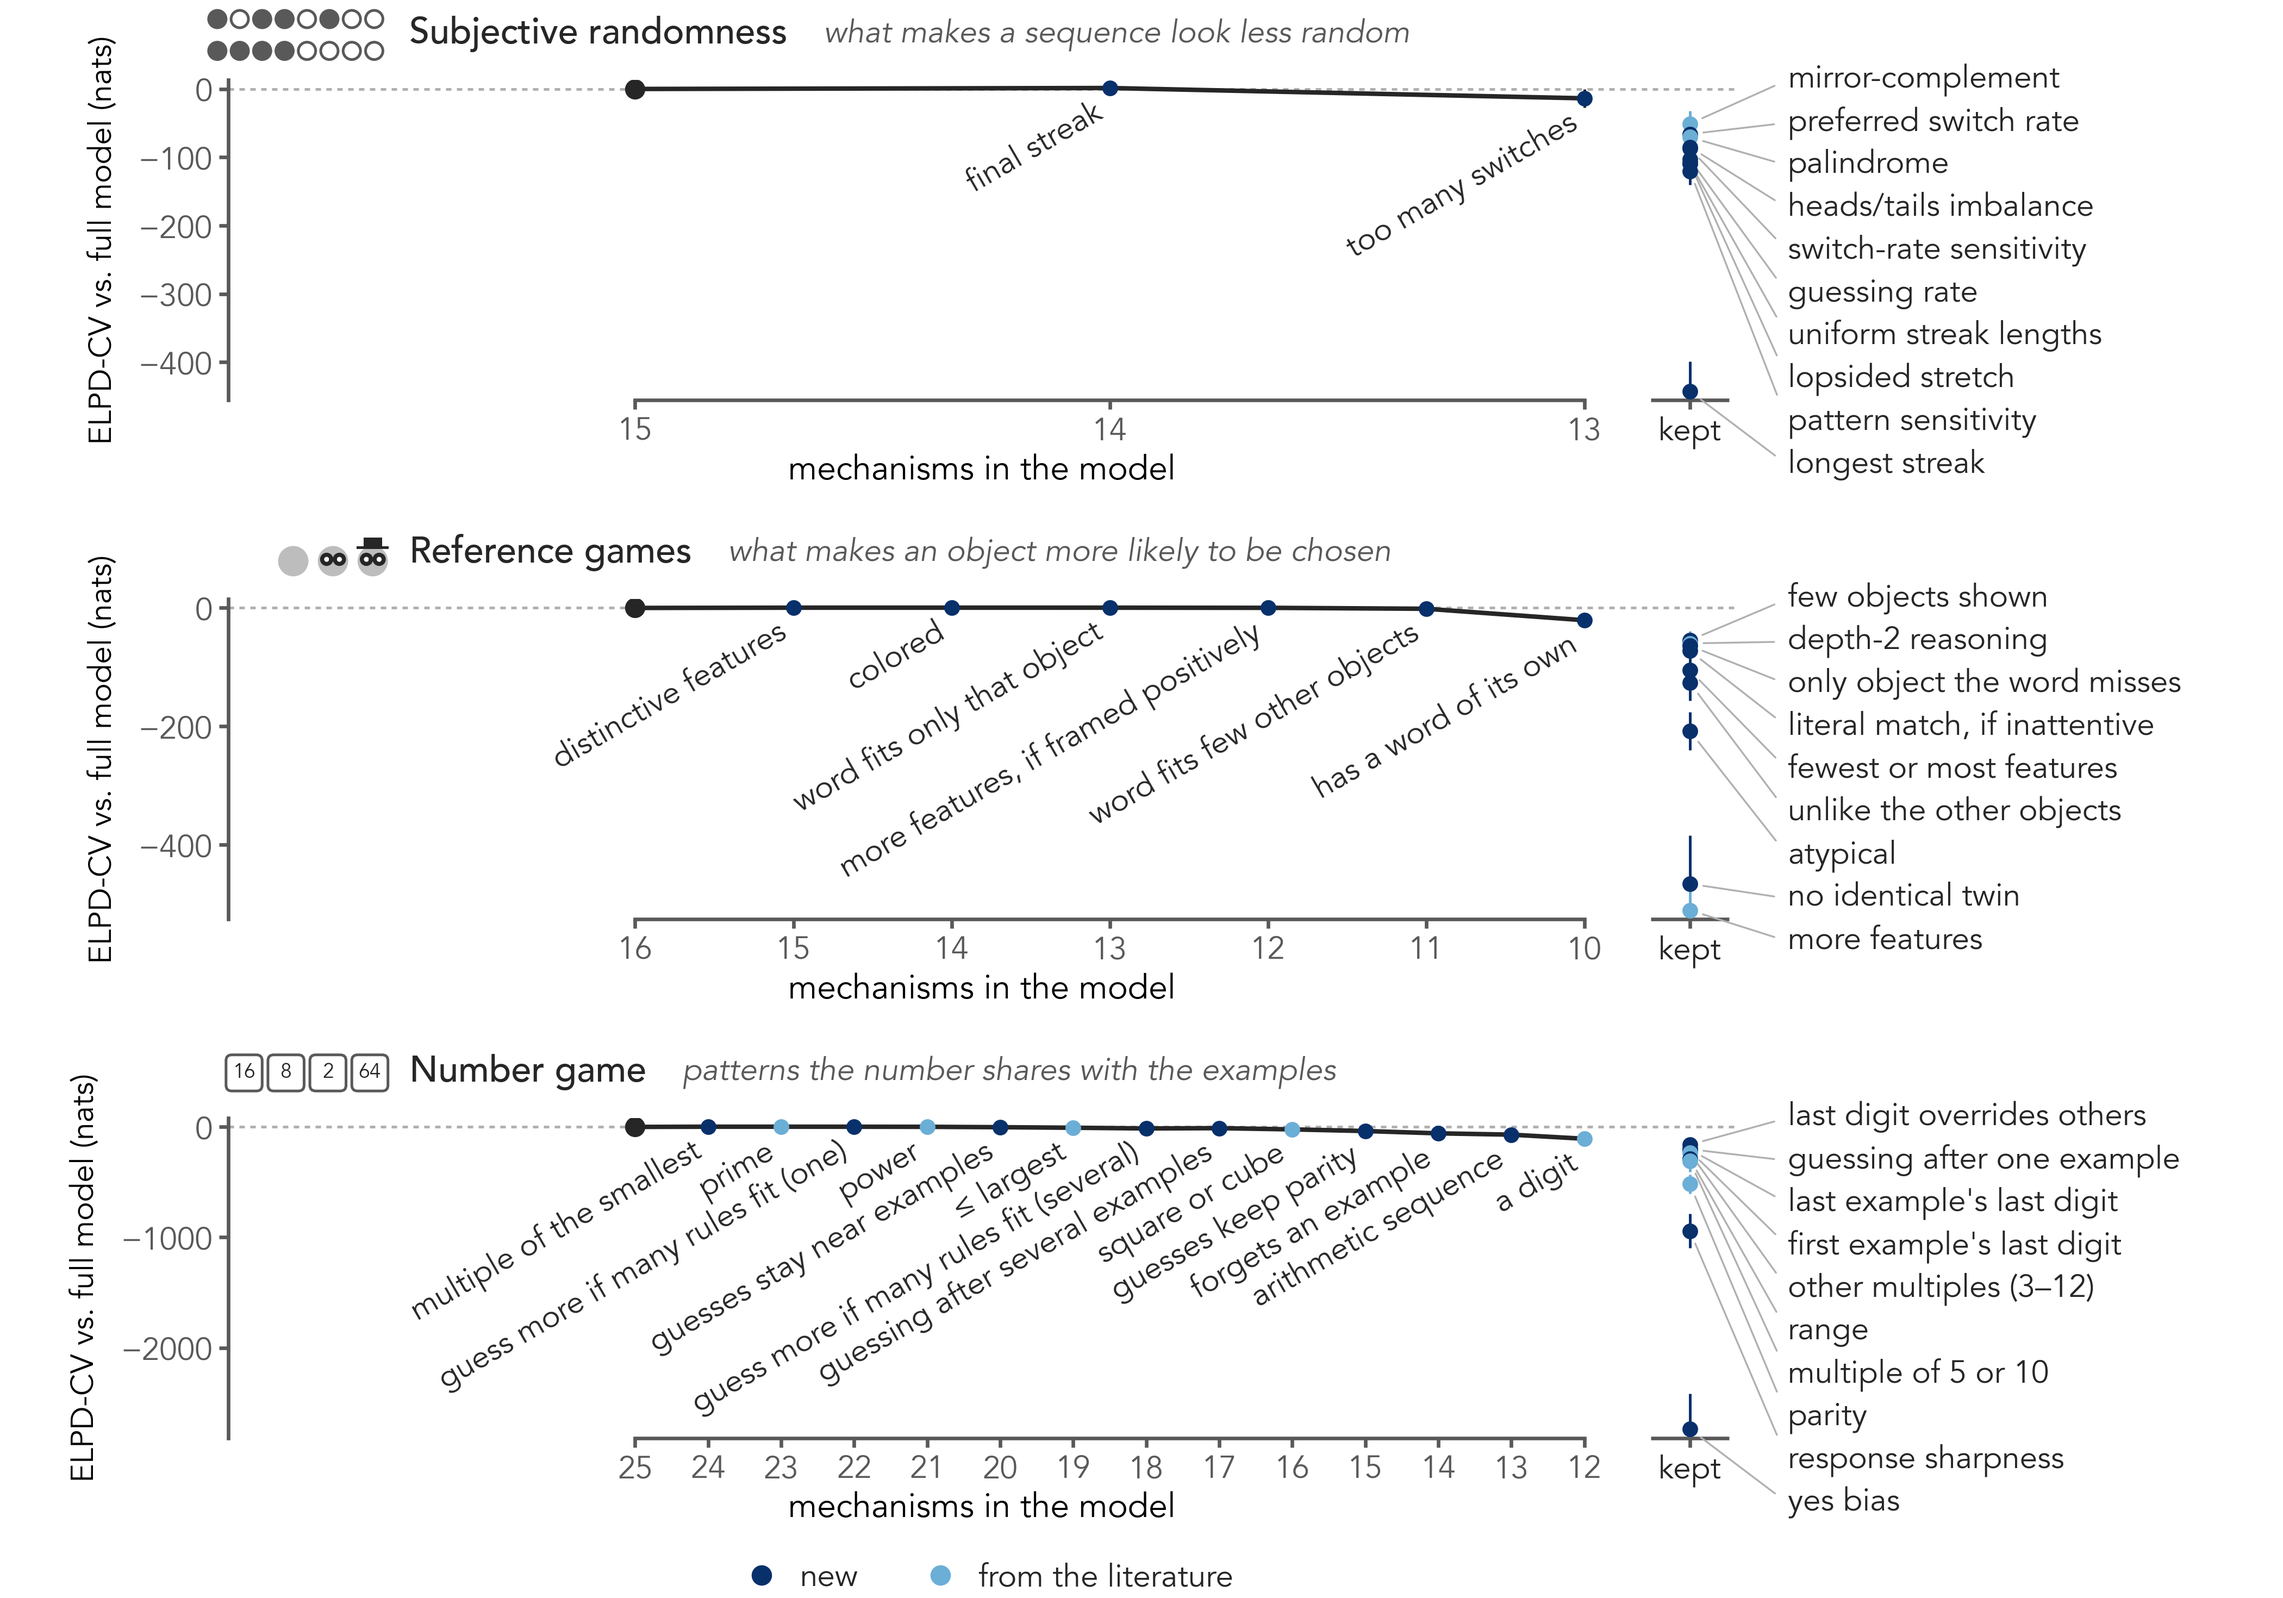
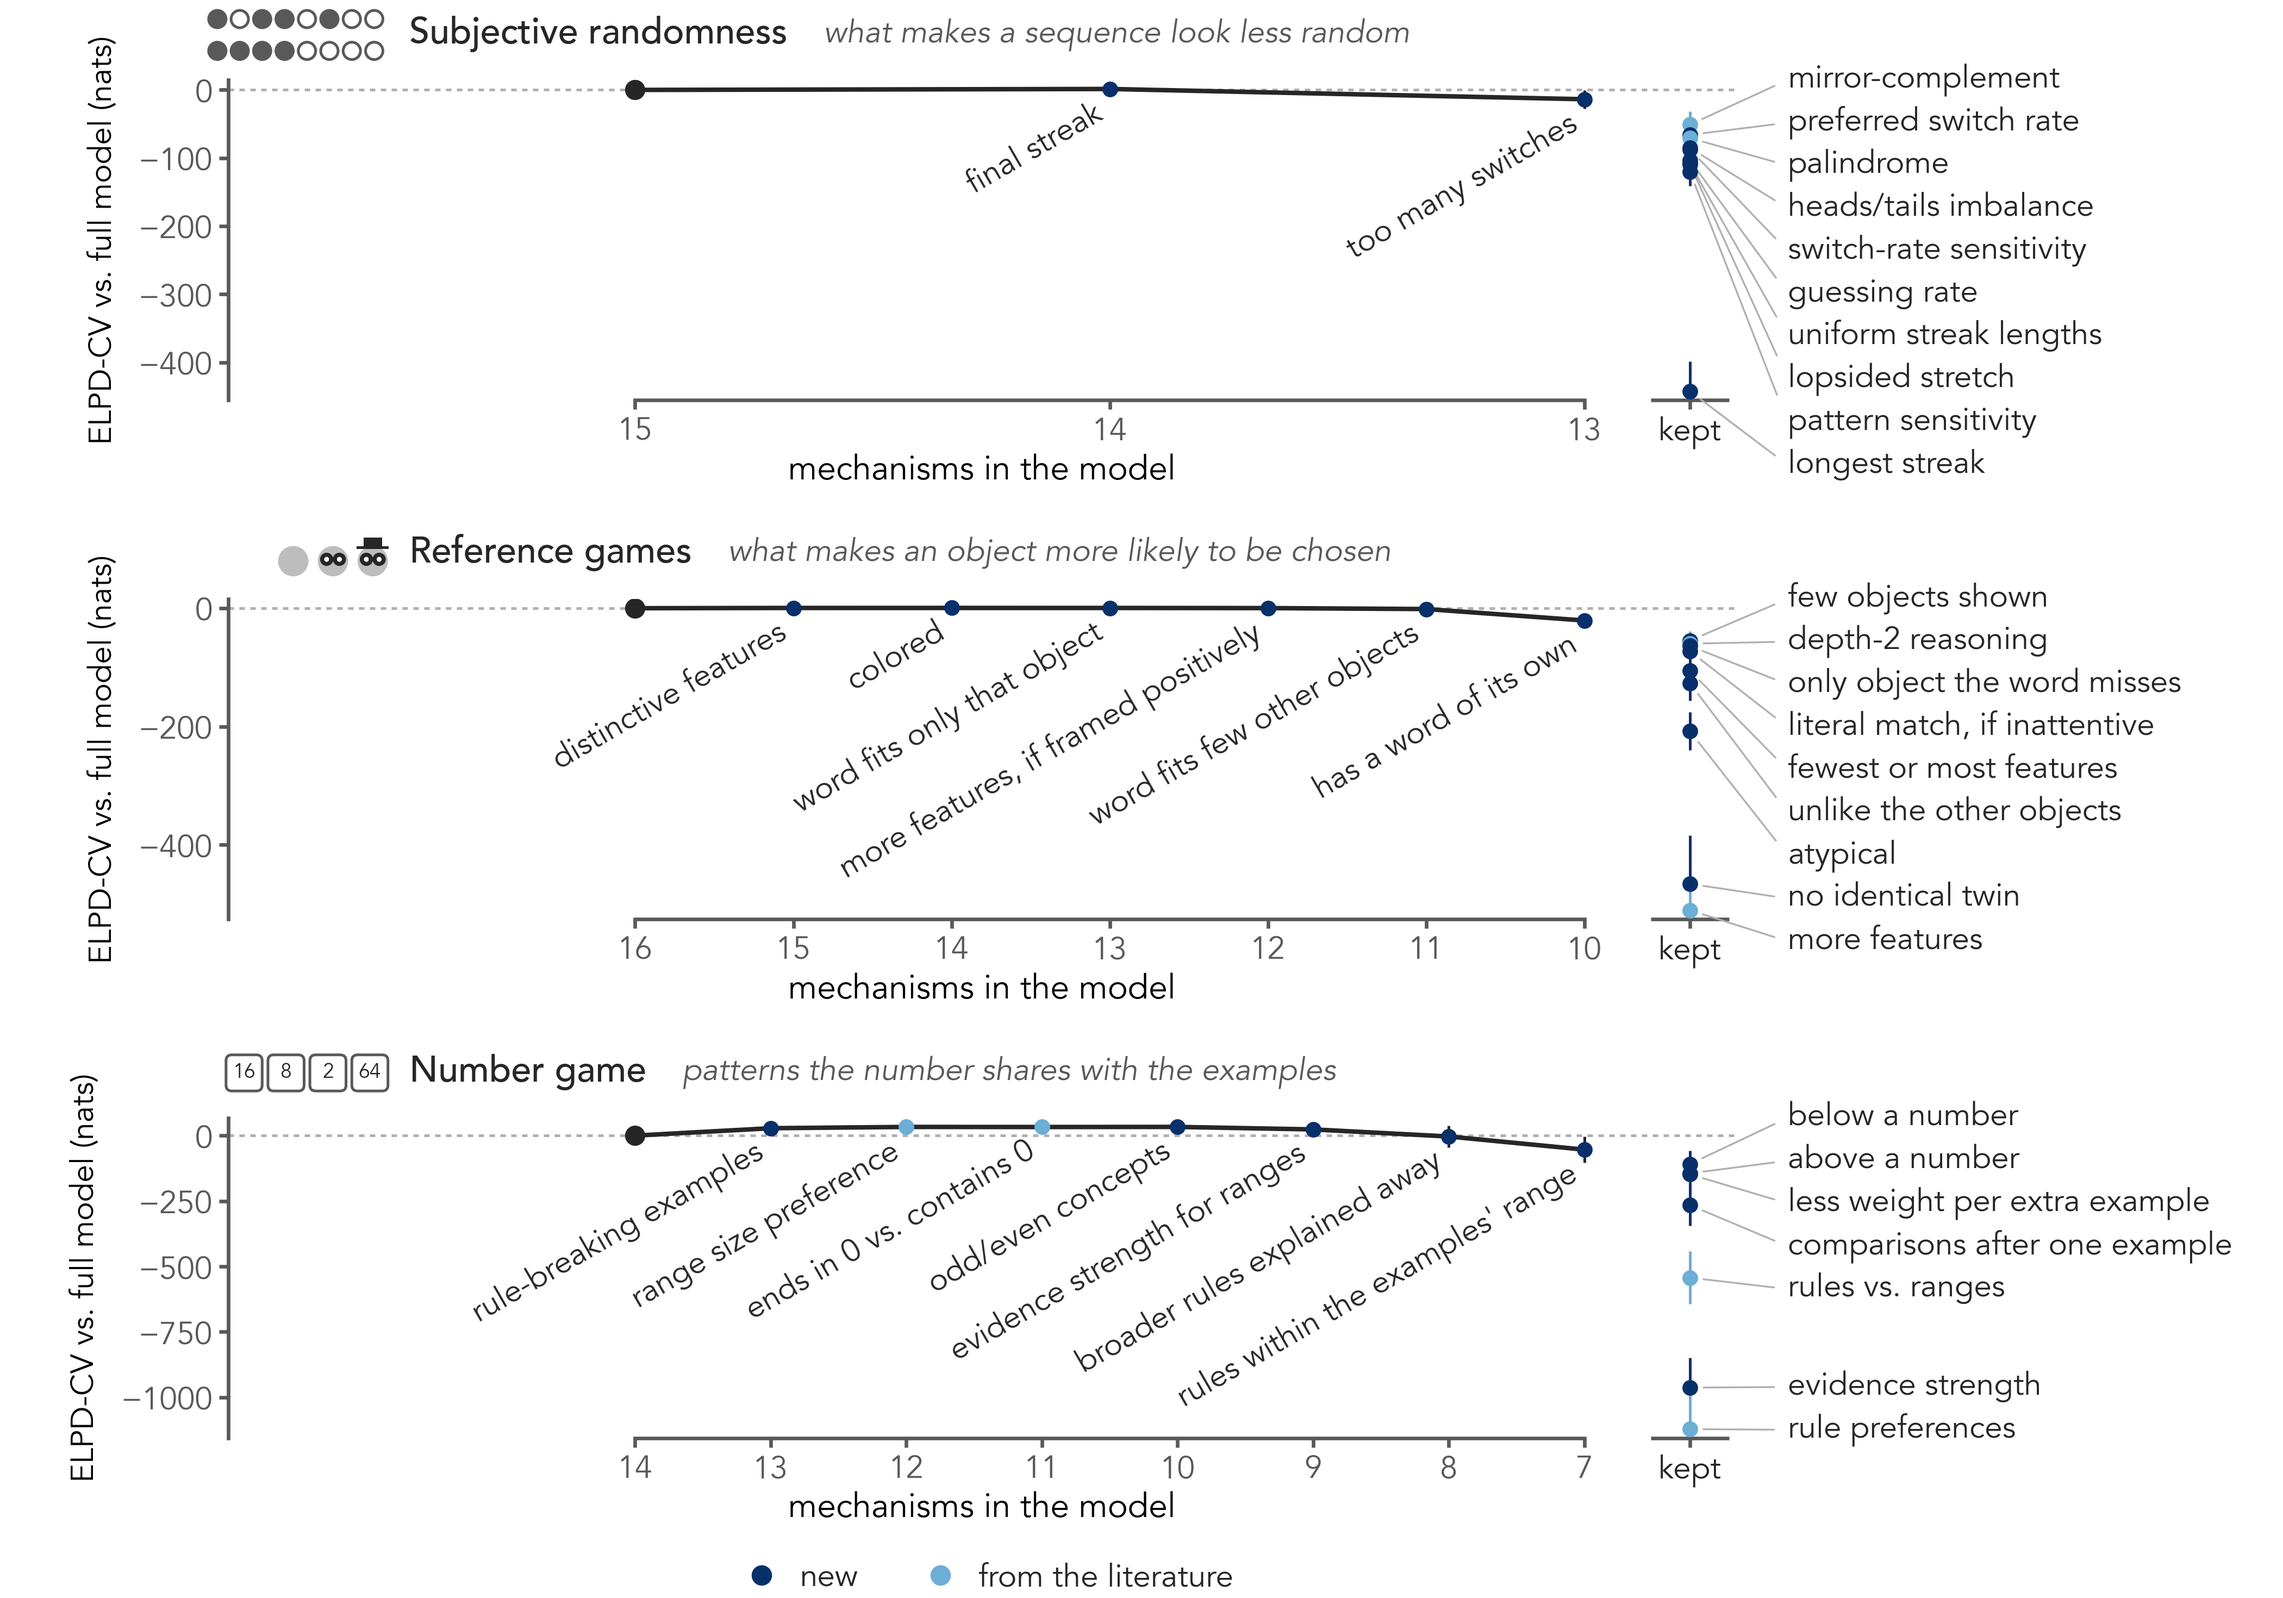
Figure 4: the number game's ablation of run 3's winner (exception_weighted_rule_rejection), its mechanisms named; the y axis takes in a path that rises above the full model

diff --git a/scripts/paper/figures/fig4.py b/scripts/paper/figures/fig4.py
@@ -36,7 +36,7 @@ def sources(figure_data: Path):
     run = sr["winner_runs"][sr["best_model"]]
     return {"subjective_randomness": here() / f"data/results/human_experiment_sr-oct26/analysis/results/ablation/{run}/elimination.json",
             "rsa": here() / "data/rsa/c0_ablation/eliminate/elimination.json",
-            "number_game": here() / "data/results/number_game_dataset-nov26/analysis/ablation/elimination.json"}
+            "number_game": here() / "data/results/number_game_dataset-nov26/analysis/ablation_ew/elimination.json"}
 
 
 def style_of(names, m):
@@ -98,7 +98,8 @@ def draw(ax, elimination, names):
         ax.scatter([xo], [yo], s=12, color=color, linewidths=0, zorder=4)
         labels.append((yo, name, text, (xo, yo)))
     # the options' names in a column right of them, spread apart, a leader to each
-    ax.set_ylim(lo - 0.03 * abs(lo), 0.03 * abs(lo))
+    hi = max(0.0, y.max())  # a removal can improve the fit: the path can rise above the full model
+    ax.set_ylim(lo - 0.03 * (hi - lo), hi + 0.03 * (hi - lo))
     fig = ax.figure
     fig.canvas.draw()
     to_data = ax.transData.inverted()
